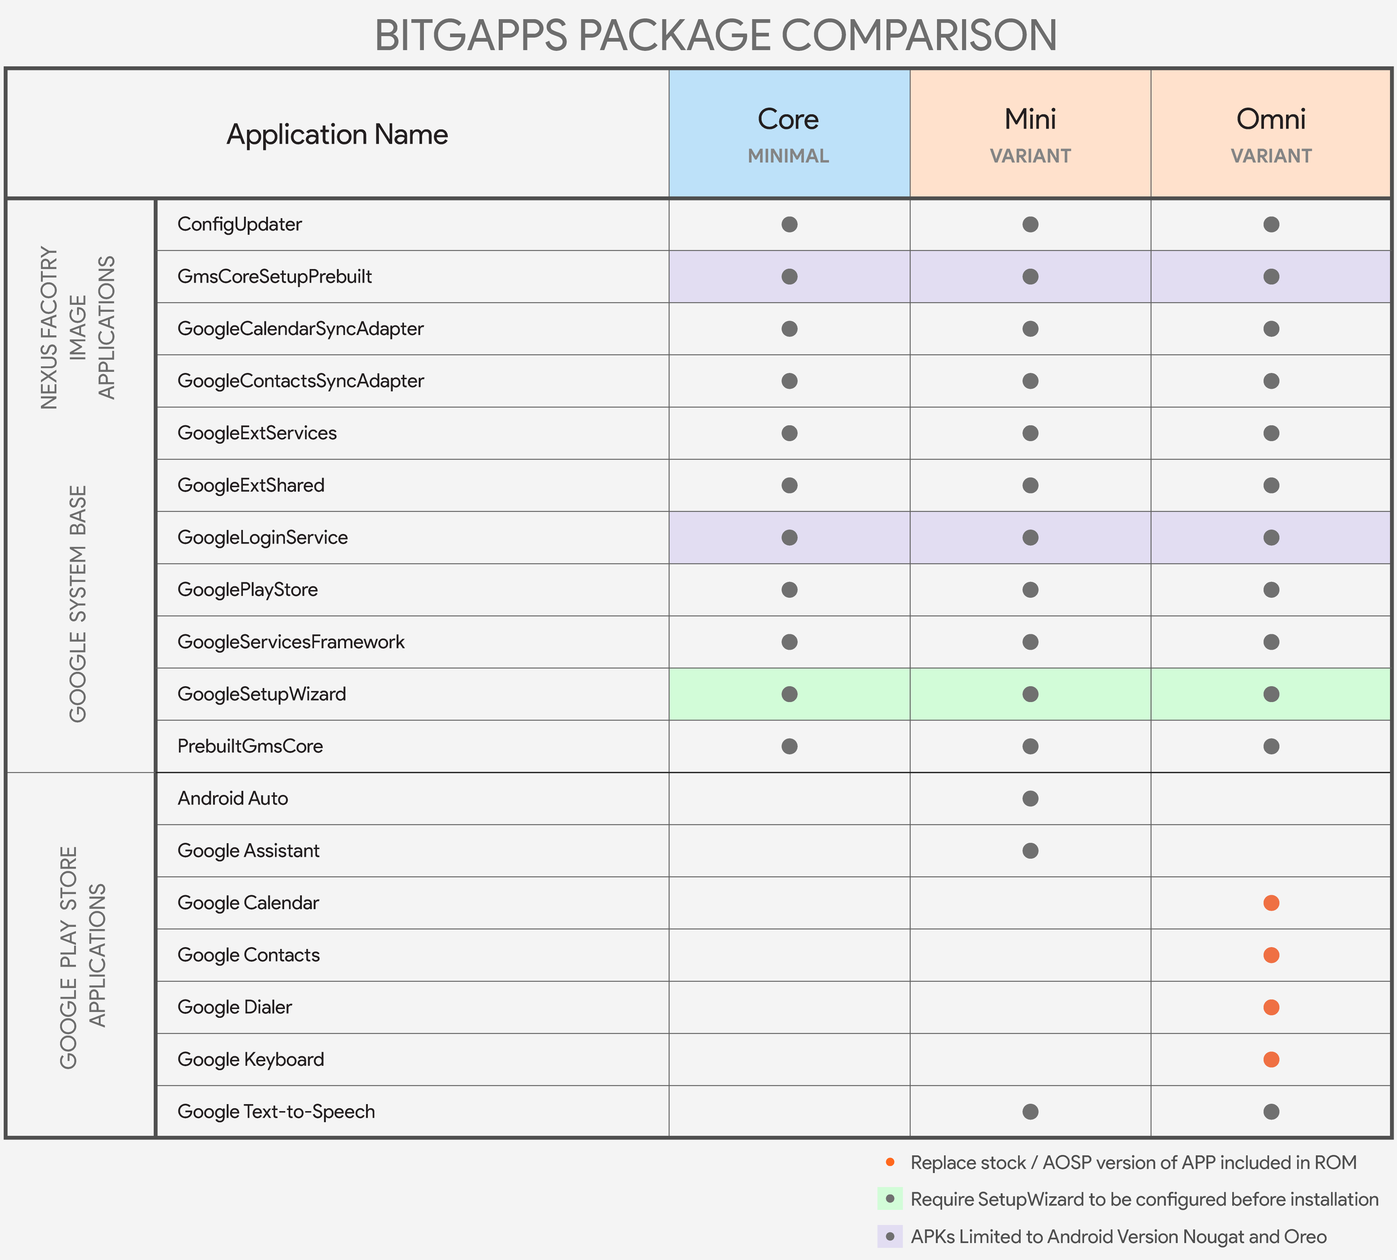
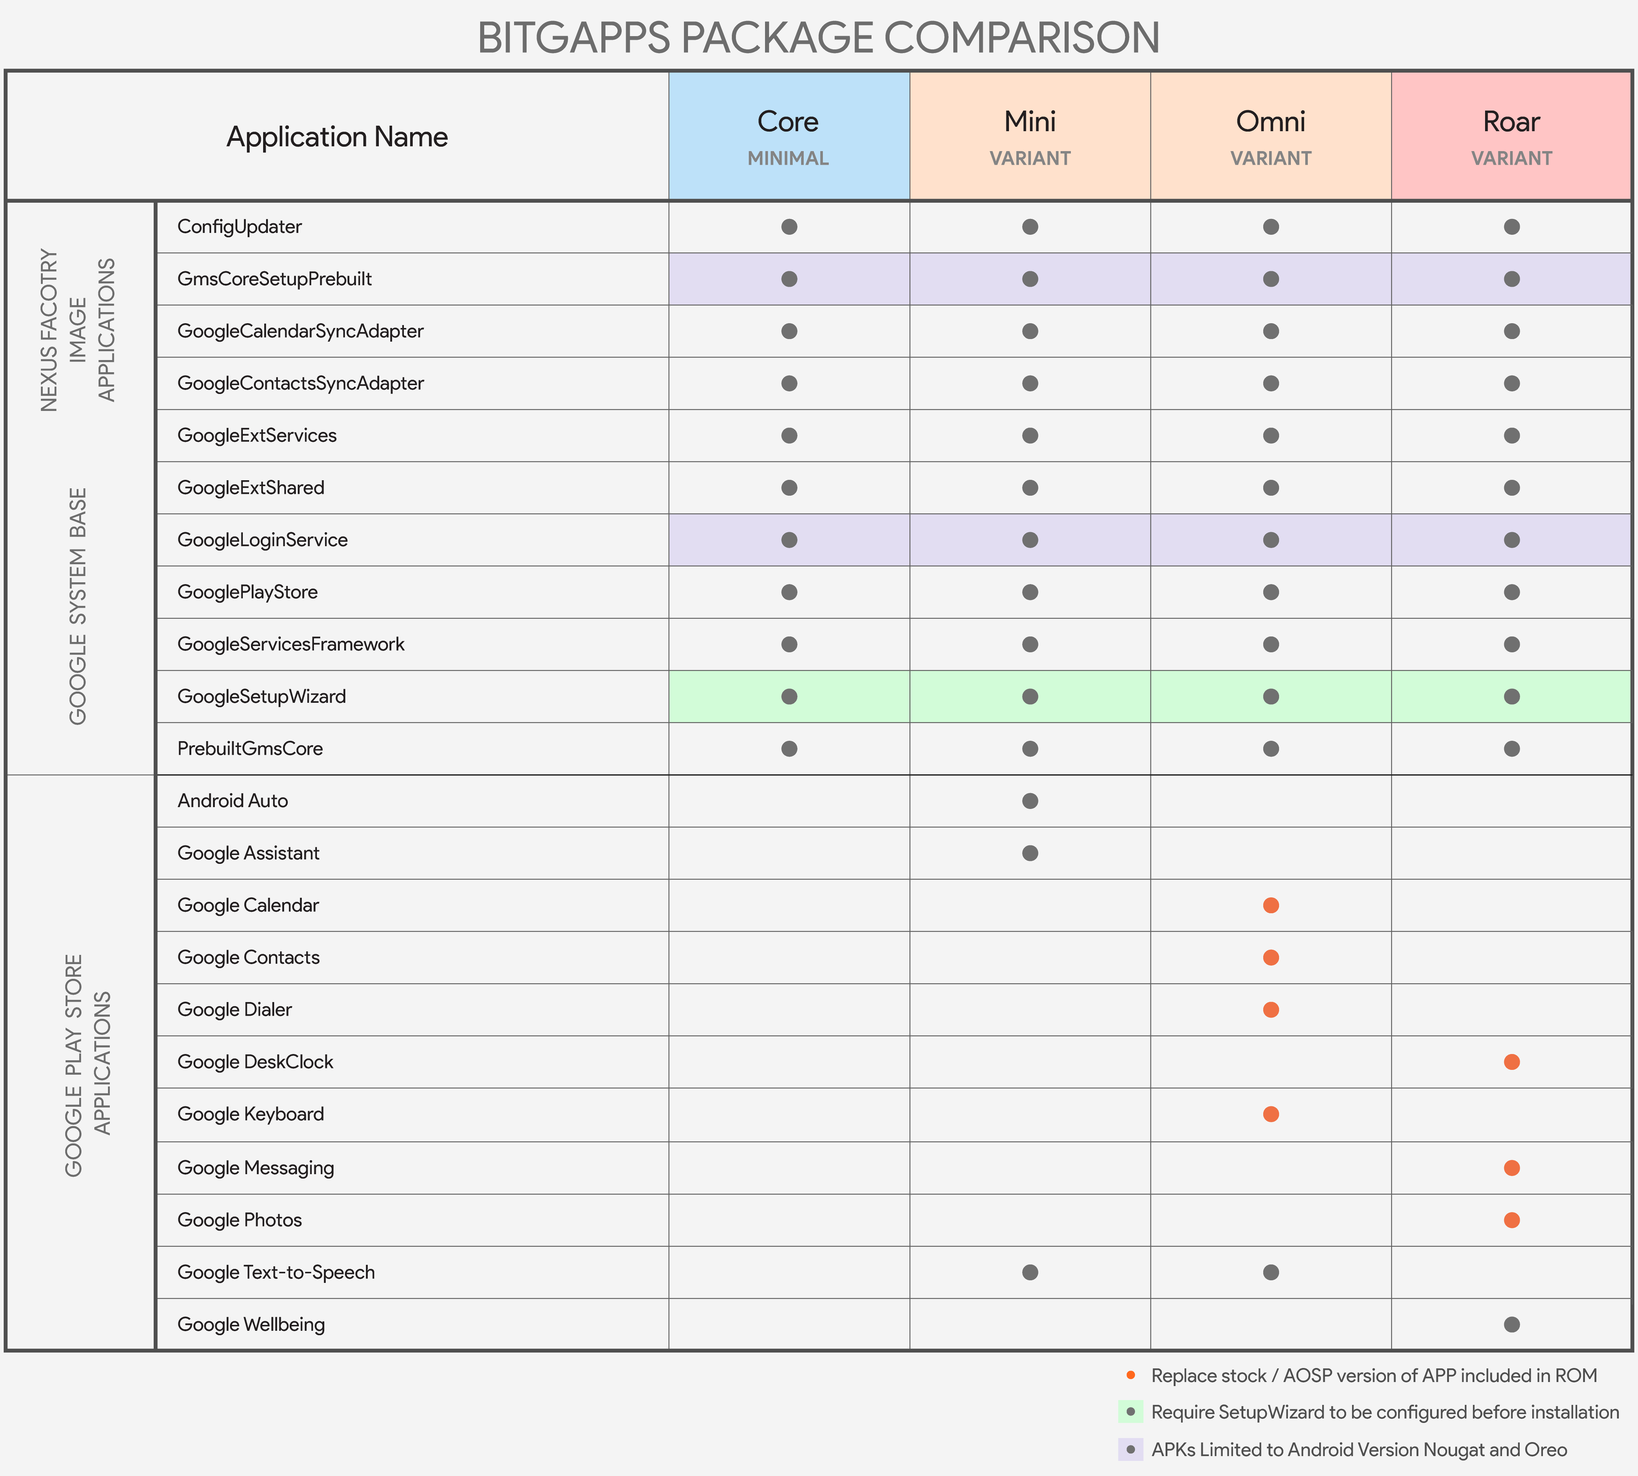
BiTGApps v2.4

diff --git a/addon.html b/addon.html
@@ -77,7 +77,7 @@
                 <div class="dropdown">
                   <button type="button" class="btn btn-dark dropdown-toggle" data-bs-toggle="dropdown" aria-expanded="false">Link</button>
                   <div class="dropdown-menu">
-                    <a class="dropdown-item" href="https://github.com/BiTGApps/Addon-Release/releases/download/v2.3/AndroidAuto-v2.3.zip">ALL</a>
+                    <a class="dropdown-item" href="https://github.com/BiTGApps/Addon-Release/releases/download/v2.4/AndroidAuto-v2.4.zip">ALL</a>
                   </div>
                 </div>
               </td>
@@ -88,8 +88,8 @@
                 <div class="dropdown">
                   <button type="button" class="btn btn-dark dropdown-toggle" data-bs-toggle="dropdown" aria-expanded="false">Link</button>
                   <div class="dropdown-menu">
-                    <a class="dropdown-item" href="https://github.com/BiTGApps/Addon-Release/releases/download/v2.3/Assistant-v2.3-ARM.zip">ARM</a>
-                    <a class="dropdown-item" href="https://github.com/BiTGApps/Addon-Release/releases/download/v2.3/Assistant-v2.3-ARM64.zip">ARM64</a>
+                    <a class="dropdown-item" href="https://github.com/BiTGApps/Addon-Release/releases/download/v2.4/Assistant-v2.4-ARM.zip">ARM</a>
+                    <a class="dropdown-item" href="https://github.com/BiTGApps/Addon-Release/releases/download/v2.4/Assistant-v2.4-ARM64.zip">ARM64</a>
                   </div>
                 </div>
               </td>
@@ -100,7 +100,7 @@
                 <div class="dropdown">
                   <button type="button" class="btn btn-dark dropdown-toggle" data-bs-toggle="dropdown" aria-expanded="false">Link</button>
                   <div class="dropdown-menu">
-                    <a class="dropdown-item" href="https://github.com/BiTGApps/Addon-Release/releases/download/v2.3/Calculator-v2.3.zip">ALL</a>
+                    <a class="dropdown-item" href="https://github.com/BiTGApps/Addon-Release/releases/download/v2.4/Calculator-v2.4.zip">ALL</a>
                   </div>
                 </div>
               </td>
@@ -111,7 +111,7 @@
                 <div class="dropdown">
                   <button type="button" class="btn btn-dark dropdown-toggle" data-bs-toggle="dropdown" aria-expanded="false">Link</button>
                   <div class="dropdown-menu">
-                    <a class="dropdown-item" href="https://github.com/BiTGApps/Addon-Release/releases/download/v2.3/Calendar-v2.3.zip">ALL</a>
+                    <a class="dropdown-item" href="https://github.com/BiTGApps/Addon-Release/releases/download/v2.4/Calendar-v2.4.zip">ALL</a>
                   </div>
                 </div>
               </td>
@@ -122,7 +122,7 @@
                 <div class="dropdown">
                   <button type="button" class="btn btn-dark dropdown-toggle" data-bs-toggle="dropdown" aria-expanded="false">Link</button>
                   <div class="dropdown-menu">
-                    <a class="dropdown-item" href="https://github.com/BiTGApps/Addon-Release/releases/download/v2.3/Chrome-v2.3.zip">ALL</a>
+                    <a class="dropdown-item" href="https://github.com/BiTGApps/Addon-Release/releases/download/v2.4/Chrome-v2.4.zip">ALL</a>
                   </div>
                 </div>
               </td>
@@ -133,7 +133,7 @@
                 <div class="dropdown">
                   <button type="button" class="btn btn-dark dropdown-toggle" data-bs-toggle="dropdown" aria-expanded="false">Link</button>
                   <div class="dropdown-menu">
-                    <a class="dropdown-item" href="https://github.com/BiTGApps/Addon-Release/releases/download/v2.3/Contacts-v2.3.zip">ALL</a>
+                    <a class="dropdown-item" href="https://github.com/BiTGApps/Addon-Release/releases/download/v2.4/Contacts-v2.4.zip">ALL</a>
                   </div>
                 </div>
               </td>
@@ -144,7 +144,7 @@
                 <div class="dropdown">
                   <button type="button" class="btn btn-dark dropdown-toggle" data-bs-toggle="dropdown" aria-expanded="false">Link</button>
                   <div class="dropdown-menu">
-                    <a class="dropdown-item" href="https://github.com/BiTGApps/Addon-Release/releases/download/v2.3/DeskClock-v2.3.zip">ALL</a>
+                    <a class="dropdown-item" href="https://github.com/BiTGApps/Addon-Release/releases/download/v2.4/DeskClock-v2.4.zip">ALL</a>
                   </div>
                 </div>
               </td>
@@ -155,8 +155,8 @@
                 <div class="dropdown">
                   <button type="button" class="btn btn-dark dropdown-toggle" data-bs-toggle="dropdown" aria-expanded="false">Link</button>
                   <div class="dropdown-menu">
-                    <a class="dropdown-item" href="https://github.com/BiTGApps/Addon-Release/releases/download/v2.3/Dialer-v2.3-ARM.zip">ARM</a>
-                    <a class="dropdown-item" href="https://github.com/BiTGApps/Addon-Release/releases/download/v2.3/Dialer-v2.3-ARM64.zip">ARM64</a>
+                    <a class="dropdown-item" href="https://github.com/BiTGApps/Addon-Release/releases/download/v2.4/Dialer-v2.4-ARM.zip">ARM</a>
+                    <a class="dropdown-item" href="https://github.com/BiTGApps/Addon-Release/releases/download/v2.4/Dialer-v2.4-ARM64.zip">ARM64</a>
                   </div>
                 </div>
               </td>
@@ -167,8 +167,8 @@
                 <div class="dropdown">
                   <button type="button" class="btn btn-dark dropdown-toggle" data-bs-toggle="dropdown" aria-expanded="false">Link</button>
                   <div class="dropdown-menu">
-                    <a class="dropdown-item" href="https://github.com/BiTGApps/Addon-Release/releases/download/v2.3/Gmail-v2.3-ARM.zip">ARM</a>
-                    <a class="dropdown-item" href="https://github.com/BiTGApps/Addon-Release/releases/download/v2.3/Gmail-v2.3-ARM64.zip">ARM64</a>
+                    <a class="dropdown-item" href="https://github.com/BiTGApps/Addon-Release/releases/download/v2.4/Gmail-v2.4-ARM.zip">ARM</a>
+                    <a class="dropdown-item" href="https://github.com/BiTGApps/Addon-Release/releases/download/v2.4/Gmail-v2.4-ARM64.zip">ARM64</a>
                   </div>
                 </div>
               </td>
@@ -179,8 +179,8 @@
                 <div class="dropdown">
                   <button type="button" class="btn btn-dark dropdown-toggle" data-bs-toggle="dropdown" aria-expanded="false">Link</button>
                   <div class="dropdown-menu">
-                    <a class="dropdown-item" href="https://github.com/BiTGApps/Addon-Release/releases/download/v2.3/LatinIME-v2.3-ARM.zip">ARM</a>
-                    <a class="dropdown-item" href="https://github.com/BiTGApps/Addon-Release/releases/download/v2.3/LatinIME-v2.3-ARM64.zip">ARM64</a>
+                    <a class="dropdown-item" href="https://github.com/BiTGApps/Addon-Release/releases/download/v2.4/LatinIME-v2.4-ARM.zip">ARM</a>
+                    <a class="dropdown-item" href="https://github.com/BiTGApps/Addon-Release/releases/download/v2.4/LatinIME-v2.4-ARM64.zip">ARM64</a>
                   </div>
                 </div>
               </td>
@@ -191,8 +191,8 @@
                 <div class="dropdown">
                   <button type="button" class="btn btn-dark dropdown-toggle" data-bs-toggle="dropdown" aria-expanded="false">Link</button>
                   <div class="dropdown-menu">
-                    <a class="dropdown-item" href="https://github.com/BiTGApps/Addon-Release/releases/download/v2.3/Maps-v2.3-ARM.zip">ARM</a>
-                    <a class="dropdown-item" href="https://github.com/BiTGApps/Addon-Release/releases/download/v2.3/Maps-v2.3-ARM64.zip">ARM64</a>
+                    <a class="dropdown-item" href="https://github.com/BiTGApps/Addon-Release/releases/download/v2.4/Maps-v2.4-ARM.zip">ARM</a>
+                    <a class="dropdown-item" href="https://github.com/BiTGApps/Addon-Release/releases/download/v2.4/Maps-v2.4-ARM64.zip">ARM64</a>
                   </div>
                 </div>
               </td>
@@ -203,8 +203,8 @@
                 <div class="dropdown">
                   <button type="button" class="btn btn-dark dropdown-toggle" data-bs-toggle="dropdown" aria-expanded="false">Link</button>
                   <div class="dropdown-menu">
-                    <a class="dropdown-item" href="https://github.com/BiTGApps/Addon-Release/releases/download/v2.3/Markup-v2.3-ARM.zip">ARM</a>
-                    <a class="dropdown-item" href="https://github.com/BiTGApps/Addon-Release/releases/download/v2.3/Markup-v2.3-ARM64.zip">ARM64</a>
+                    <a class="dropdown-item" href="https://github.com/BiTGApps/Addon-Release/releases/download/v2.4/Markup-v2.4-ARM.zip">ARM</a>
+                    <a class="dropdown-item" href="https://github.com/BiTGApps/Addon-Release/releases/download/v2.4/Markup-v2.4-ARM64.zip">ARM64</a>
                   </div>
                 </div>
               </td>
@@ -215,8 +215,8 @@
                 <div class="dropdown">
                   <button type="button" class="btn btn-dark dropdown-toggle" data-bs-toggle="dropdown" aria-expanded="false">Link</button>
                   <div class="dropdown-menu">
-                    <a class="dropdown-item" href="https://github.com/BiTGApps/Addon-Release/releases/download/v2.3/Messaging-v2.3-ARM.zip">ARM</a>
-                    <a class="dropdown-item" href="https://github.com/BiTGApps/Addon-Release/releases/download/v2.3/Messaging-v2.3-ARM64.zip">ARM64</a>
+                    <a class="dropdown-item" href="https://github.com/BiTGApps/Addon-Release/releases/download/v2.4/Messaging-v2.4-ARM.zip">ARM</a>
+                    <a class="dropdown-item" href="https://github.com/BiTGApps/Addon-Release/releases/download/v2.4/Messaging-v2.4-ARM64.zip">ARM64</a>
                   </div>
                 </div>
               </td>
@@ -227,8 +227,8 @@
                 <div class="dropdown">
                   <button type="button" class="btn btn-dark dropdown-toggle" data-bs-toggle="dropdown" aria-expanded="false">Link</button>
                   <div class="dropdown-menu">
-                    <a class="dropdown-item" href="https://github.com/BiTGApps/Addon-Release/releases/download/v2.3/Photos-v2.3-ARM.zip">ARM</a>
-                    <a class="dropdown-item" href="https://github.com/BiTGApps/Addon-Release/releases/download/v2.3/Photos-v2.3-ARM64.zip">ARM64</a>
+                    <a class="dropdown-item" href="https://github.com/BiTGApps/Addon-Release/releases/download/v2.4/Photos-v2.4-ARM.zip">ARM</a>
+                    <a class="dropdown-item" href="https://github.com/BiTGApps/Addon-Release/releases/download/v2.4/Photos-v2.4-ARM64.zip">ARM64</a>
                   </div>
                 </div>
               </td>
@@ -239,8 +239,8 @@
                 <div class="dropdown">
                   <button type="button" class="btn btn-dark dropdown-toggle" data-bs-toggle="dropdown" aria-expanded="false">Link</button>
                   <div class="dropdown-menu">
-                    <a class="dropdown-item" href="https://github.com/BiTGApps/Addon-Release/releases/download/v2.3/GoogleTTS-v2.3-ARM.zip">ARM</a>
-                    <a class="dropdown-item" href="https://github.com/BiTGApps/Addon-Release/releases/download/v2.3/GoogleTTS-v2.3-ARM64.zip">ARM64</a>
+                    <a class="dropdown-item" href="https://github.com/BiTGApps/Addon-Release/releases/download/v2.4/GoogleTTS-v2.4-ARM.zip">ARM</a>
+                    <a class="dropdown-item" href="https://github.com/BiTGApps/Addon-Release/releases/download/v2.4/GoogleTTS-v2.4-ARM64.zip">ARM64</a>
                   </div>
                 </div>
               </td>
@@ -251,7 +251,7 @@
                 <div class="dropdown">
                   <button type="button" class="btn btn-dark dropdown-toggle" data-bs-toggle="dropdown" aria-expanded="false">Link</button>
                   <div class="dropdown-menu">
-                    <a class="dropdown-item" href="https://github.com/BiTGApps/Addon-Release/releases/download/v2.3/WebView-v2.3.zip">ALL</a>
+                    <a class="dropdown-item" href="https://github.com/BiTGApps/Addon-Release/releases/download/v2.4/WebView-v2.4.zip">ALL</a>
                   </div>
                 </div>
               </td>
@@ -262,7 +262,7 @@
                 <div class="dropdown">
                   <button type="button" class="btn btn-dark dropdown-toggle" data-bs-toggle="dropdown" aria-expanded="false">Link</button>
                   <div class="dropdown-menu">
-                    <a class="dropdown-item" href="https://github.com/BiTGApps/Addon-Release/releases/download/v2.3/Wellbeing-v2.3.zip">ALL</a>
+                    <a class="dropdown-item" href="https://github.com/BiTGApps/Addon-Release/releases/download/v2.4/Wellbeing-v2.4.zip">ALL</a>
                   </div>
                 </div>
               </td>

diff --git a/index.html b/index.html
@@ -283,10 +283,10 @@
           <div id="android" class="container-fluid border collapse show bg-white" style="border-color:#f0f0f0">
             <img alt="BiTGApps for Android" class="img-fluid" style="width:500px" src="https://cdn.jsdelivr.net/gh/BiTGApps/BiTGApps.github.io@master/images/support.png" />
           </div>
-          <li class="list-group-item" type="button" data-toggle="collapse" data-target="#flashable" style="background-color:#f0f0f0">BiTGApps has flashable packages in three variations</li>
+          <li class="list-group-item" type="button" data-toggle="collapse" data-target="#flashable" style="background-color:#f0f0f0">BiTGApps has flashable packages in four variations</li>
           <div id="flashable" class="container-fluid collapse show bg-dark text-white text-center fw-light">
             Minimal BiTGApps Package which includes the Core Google Apps like Google Play Services (GMS),
-            Google Services Framework (GSF), Google Play Store and other essentials. Variants like Mini and Omni
+            Google Services Framework (GSF), Google Play Store and other essentials. Variants like Mini, Omni and Roar
             which includes everything from Minimal with more useful Google Apps like Contacts, Dialer, Gboard, etc.
             Variants have different set of Google Apps. Checkout list of Google Apps in Minimal and Variants below.
           </div>
@@ -348,18 +348,6 @@
           </div>
         </div>
       </div>
-<!---
-      <br />
-      <div class="container">
-        <h2 class="text-center"><span class="badge badge-secondary rounded-pill font-weight-normal">Dirty Flash</span></h2>
-        <div class="card border-0 rounded" style="background-color:#f0f0f0">
-          <div class="card-body">
-            <p class="card-text text-center" style="color:#1572A1"><small class="fw-bold">Installing for the second time and so on ?</small></p>
-            <p class="text-center fw-light">Re-flashing of same package or upgrading to latest release doesn't require factory reset.</p>
-          </div>
-        </div>
-      </div>
--->
       <br />
       <div class="container">
         <h2 class="text-center"><span class="badge badge-secondary rounded-pill font-weight-normal">SetupWizard</span></h2>
@@ -396,14 +384,16 @@
         <h2 class="text-center"><span class="badge rounded-pill font-weight-normal" style="background-image:linear-gradient(-45deg, #06beb6 0%, #48b1bf 100%)">What's New ?</span></h2>
         <div class="card text-start" style="background-color:#f0f0f0">
           <div class="card-header" style="background-color:#C9D6FF">
-            <h6 class="card-subtitle mb-1"><span class="badge bg-primary-subtle border border-primary-subtle text-primary-emphasis rounded-pill">Latest v2.3</span></h6>
-            This update is a minor revamp of BiTGApps Project and clean flash is recommended. How we distributed Packages and GApps within them is changed.
+            <h6 class="card-subtitle mb-1"><span class="badge bg-primary-subtle border border-primary-subtle text-primary-emphasis rounded-pill">Latest v2.4</span></h6>
+            This update brings another variant including new feature under Advance Features and Options.
           </div>
           <div class="card-body">
             <ul class="icon-list ps-0">
-              <li class="d-flex align-items-start mb-1">Main approach here is to keep things minimal with relevant stuffs and no bloats at all.</li>
-              <li class="d-flex align-items-start mb-1">This update brings back Doze mode for Google Play Services. That battery optimization thing.</li>
-              <li class="d-flex align-items-start mb-1">Moved to AndroidAuto Stub Package to fix some issues with its use.</li>
+              <li class="d-flex align-items-start mb-1">Added another variant ROAR, now we have four variants in total.</li>
+              <li class="d-flex align-items-start mb-1">Advance Features and Options now available. Proceed with CAUTION.</li>
+              <li class="d-flex align-items-start mb-1">Re-written entire installation stack.</li>
+              <li class="d-flex align-items-start mb-1">Fixed installation stucked at APEX mount.</li>
+              <li class="d-flex align-items-start mb-1">It will now show backup/restore progress during OTA update.</li>
               <li class="d-flex align-items-start mb-1">Config file is also updated, it is now bitgapps.conf instead of bitgapps-config.prop; Relevant for SetupWizard users.</li>
               <li class="d-flex align-items-start mb-1">With this release, we started to save installation logs in internal storage and /system/etc (if encrypted data).</li>
               <li class="d-flex align-items-start mb-1">Installation logs file is usually named as bitgapps_debug_logs_xx.tar.gz</li>
@@ -749,7 +739,7 @@
               <h4 class="card-title"><span class="badge rounded-pill" style="background-color:#FF731D">ROAR</span></h4>
               <h6 class="card-subtitle mb-2 text-muted">Google Apps Package</h6>
               <p class="card-text">Contain Extra Google Apps</p>
-              <a role="button" class="btn btn-dark btn-sm disabled" data-bs-toggle="collapse" data-bs-target="#collPanelRoar" href="#collPanelRoar"><i class="fa-solid fa-ban me-1"></i>Coming Soon</a>
+              <a role="button" class="btn btn-dark btn-sm" data-bs-toggle="collapse" data-bs-target="#collPanelRoar" href="#collPanelRoar"><i class="fa-solid fa-angles-down me-1"></i>Download</a>
             </div>
           </div>
         </div>

diff --git a/faq.html b/faq.html
@@ -119,10 +119,17 @@
           Go to Settings &gt; Apps &gt; Google Play Store and Google Play Services &gt; Mobile data &amp; WiFi &gt; toggle Allow Network
           Access.
         </p>
-        <p><strong>8. I have Core Version installed, Can i switch to Minified or Omni version without clean flash ?</strong></p>
+        <p><strong>8. I have Core Version installed, Can i switch to Mini, Omni or Roar version without clean flash ?</strong></p>
         <p>No, You need to clean flash, When switching between different versions, otherwise expect crashes.</p>
-        <p><strong>9. Do i need to perform additional steps after installation of Minified or Omni version ?</strong></p>
+        <p><strong>9. Do i need to perform additional steps after installation of Mini, Omni or Roar version ?</strong></p>
         <p>Yes, You need to set default apps under Settings &gt; Apps &#38; notifications &gt; Default apps.</p>
+        <p><strong>10. Do i need to flash every new BiTGApps release on top of last installation ?</strong></p>
+        <p>
+          No, You certainly don't have to, if everything is fine with your last installation, Just keep this as is and switch to new
+          BiTGApps release, When you clean flash ROM again or want to use a feature which is available in new release and not in last.
+        </p>
+        <p><strong>11. BiTGApps installation stucked at <span class="text-muted">"Mounting /apex"</span> How to fix this ?</strong></p>
+        <p>Use some different <span class="fw-bold text-muted">RECOVERY</span>.</p>
       </div>
     </main>
     <footer class="footer mt-auto py-3 bg-light">

diff --git a/app.html b/app.html
@@ -66,7 +66,7 @@
           The official BiTGApps application that enables you to quickly download latest BiTGApps Package from <a class="text-success text-decoration-none" href="https://BiTGApps.github.io">BiTGApps.io</a>
         </p>
         <p class="lead">
-          <a role="button" class="btn btn-dark btn-md" href="https://sourceforge.net/projects/bitgapps/files/BiTGApps/BiTGApps-v2.0.apk/download">Download</a>
+          <a role="button" class="btn btn-dark btn-md" href="https://sourceforge.net/projects/bitgapps/files/BiTGApps/BiTGApps-v2.1.apk/download">Download</a>
         </p>
         <div class="alert alert-success fw-light" role="alert">
           <h5 class="alert-heading">Permissions</h5>

diff --git a/feature.html b/feature.html
@@ -131,7 +131,7 @@
           <img alt="BiTGApps for Android" class="py-2" src="images/ksu.jpg" width="300px" />
           <img alt="BiTGApps for Android" src="images/mask.png" width="300px" />
         </p>
-        <span class="badge bg-dark-subtle border border-dark-subtle text-dark-emphasis rounded-pill">Early Announcement of Advance Features</span>
+        <span class="badge bg-danger-subtle border border-danger-subtle text-danger-emphasis rounded-pill">Advance Features Now Available</span>
       </main>
       <footer class="mt-auto text-dark-50">
         <br />
